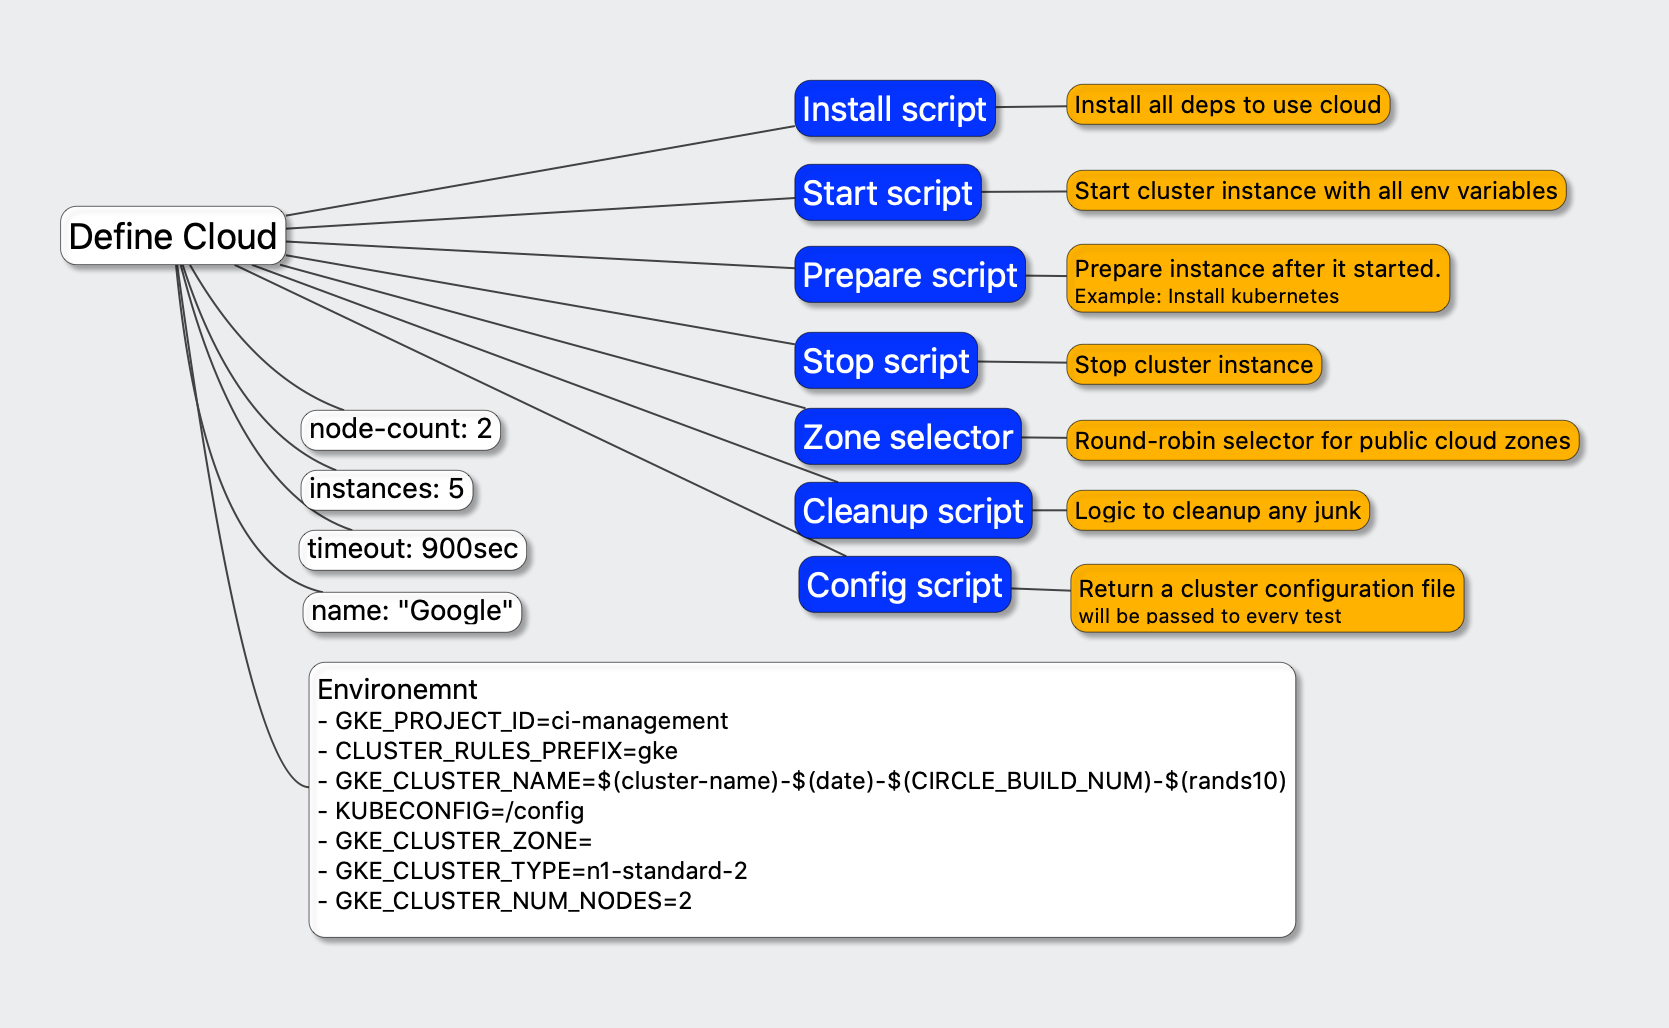
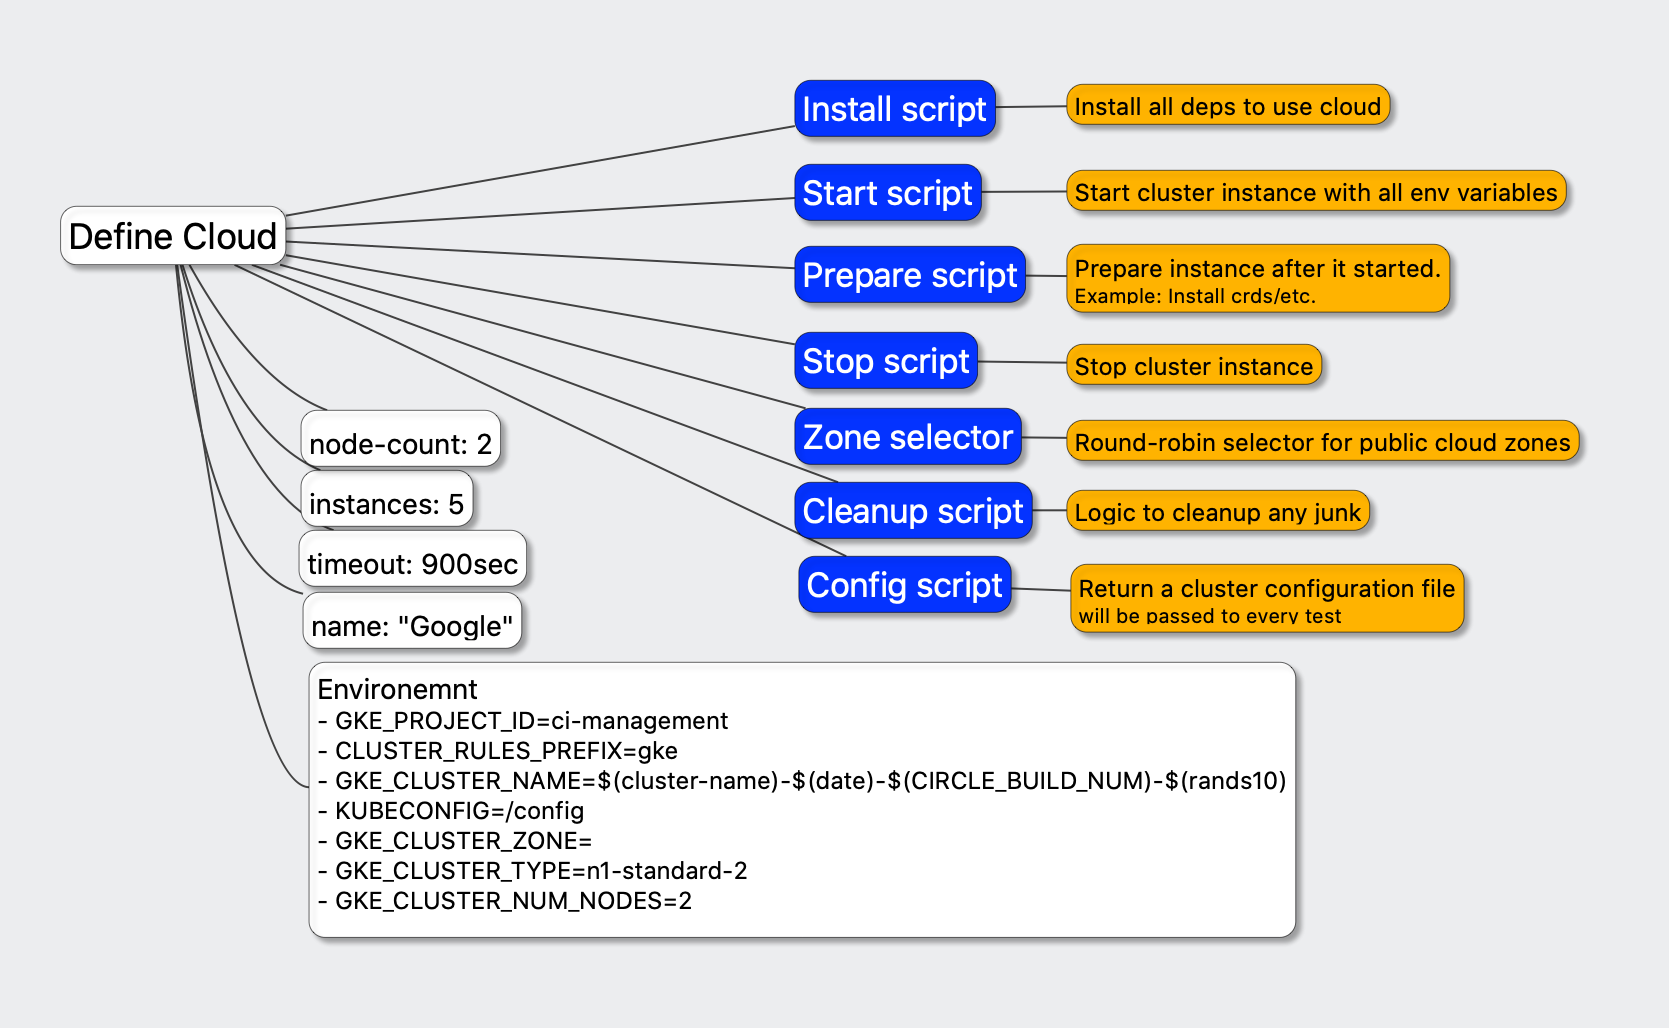
Documenation update

diff --git a/pkg/config/config.go b/pkg/config/config.go
@@ -28,13 +28,13 @@ type DeviceConfig struct {
 type PacketConfig struct {
 	Devices           []*DeviceConfig `yaml:"devices"`            // A set of device configuration required to be created before starting cluster.
 	Facilities        []string        `yaml:"facilities"`         // A set of facility filters
-	PreferredFacility string          `yaml:"preferred-facility"` // A prefered facility key
+	PreferredFacility string          `yaml:"preferred-facility"` // A preferred facility key
 	SshKey            string          `yaml:"ssh-key"`            // A location of ssh key
 }
 
 type ClusterProviderConfig struct {
 	Name       string            `yaml:"name"`       // name of provider, GKE, Azure, etc.
-	Kind       string            `yaml:"kind"`       // register provider type, 'generic', 'gke', multi-cluster
+	Kind       string            `yaml:"kind"`       // register provider type, 'shell', 'packet'
 	Instances  int               `yaml:"instances"`  // Number of required instances, executions will be split between instances.
 	Timeout    int               `yaml:"timeout"`    // Timeout for start, stop
 	RetryCount int               `yaml:"retry"`      // A count of start retrying steps.

diff --git a/docs/README.md b/docs/README.md
@@ -1,33 +1,316 @@
-CloudTest
-====================
+# CloudTest
 
-Overview
---------
+## Overview
+
+CloudTest is automatic tool to perform integration testing for cloud based environments, 
+it allow to configure and bring few multiple clouds to live and execurte go/shell integration tests agains all of clusters 
+configured and combine all results into one junit.xml report file to be used with any suitable CI system. 
+
+## Problem Statement
+
+Integration testing agains multiple different cluster systems could be difficult, so this tool is designed to make
+this possible to use.
+
+![Overview](images/problem_statement.png)
+
+We have few tests, they could be go integration tests or shell scripts we want to check agains every cloud system we want our 
+product to work, we need to setup few different cloud systems, with number of instances for every of them and perform 
+execution of every test we want agains every cluster with selection of instance we want to run agains. 
+
+And after all this done we want to have a report showing which tests are passed or not, for failed tests we want
+some output and results to obtain. 
+
+## Workflow
+1. User define configuration:
+    * it is used to provide individual instructions to setup every cloud instance.    
+    * it define executions:
+        * 'go based' folder with tests/or <br/>For `go` it will use `go` command line to obtain a list of individual tests by optionally passing a tag to filter tests. 
+        * shell test script - execute it and check for exit code.
+2. Start tool, it execute tests against every cloud configuration.
+3. After execution:
+    * produced JUnit structured XML report file could be used.
+    * statistics and details about executions in progress could be used to track exeution.
+    * all activities will be captured into individual folders/files for later analysis.      
+
+## Architecture
+
+![Architecture](./images/architecture.png)
+
+## Technical Details
+
+### CommandLine reference
+
+`cloudtest` is main executable for tool. It allow to execute all set of individual tests across all clouds provided.
+
+```
+Usage:
+  * cloud_test [flags]
+  * cloud_test [command]
+
+Available Commands:
+  help        Help about any command
+  version     Print the version number of cloud_test
+
+Flags:
+  -c, --clusters stringArray   Enable disable cluster configs, default use from config. Cloud be used to test against selected configuration or locally...
+      --config string          Config file for providers, default=.cloudtest.yaml
+      --count int              Execute only count of tests (default -1)
+  -e, --enabled                Use only passed cluster names...
+  -h, --help                   help for cloud_test
+      --noInstall              Pass to disable do install operations...
+      --noMask                 Pass to disable masking of environment variables...
+      --noPrepare              Pass to disable do prepare operations...
+      --noStop                 Pass to disable stop operations...
+```
+
+### Configuration file
+
+CloudTest read .cloudtest.yaml file from current directory or use --config parameter passed as arguments.
+Configuration file support include sections with Executions/Providers specified as alternative files.
+
+Full configuration syntax could be checked here: [config.go](../pkg/config/config.go)
+
+Options overview:
+![Confguration](./images/configuration.png)
+
+* CloudTestConfig - top level element configure basic stuff, support imports and define instance 
+configurations and executions.
+* CloudProviderConfig - define a cloud configuration.
+* Execution - define individual execution.
+    * ExecutionSource - specify tags or individual tests to run.
+* HealCheckConfig - define a procedure to check if we still need to perform testing, 
+it could check for git commits appear in pull request, etc.
+* RetestConfig - a way to tweak execution failures caused by cloud instabilities, 
+we found few of them during NSM work and found this very useful.
+* ExecutionStatistics - enable/disable and interval for runtime statistics.
+* PacketConfig/DeviceConfig - a packet specific configuration options.
+
+### Providers
+
+CloudTest architecture support multiple cloud providers, right now few of them are implemented.
+
+At the moment tool support few providers:
+* 'shell' - provider, a user control all life cycle of creation and manage of individual instances of 
+   cloud using shell scripts.
+* 'packet' - a provider for Packet.net hosting, it allow to create Packet devices and uses few shell scripts 
+to configure created devices.
+   
+#### Shell provider
+
+Shell provider is allow us to define every instance as combination of few steps.   
+![Define Cloud](./images/define_cloud.png)
+
+Supported Scripts:
+* `Install` script - prepare environment, executed only once per provider. 
+Could be used to install all required dependencies.
+* `Zone Selector` script - a script to select one or more zones, put randomly selected zone 
+into property $(zone-selector) and it could be used to start cloud into different zones. 
+Must return individual zones per line of output.  
+* `Start` script - used to start an instance of cloud configured. 
+Use environment variables for cloud name/etc to make it independent. 
+Right now after start will start live-monitoring of Kubernetes cluster to 
+check for required number of nodes are available.
+* `Prepare` script - Prepare instance after it is started, ex: Install CRDs/etc.
+* `Config` script - A script to return Cluster configuration file location, will be called if 
+environment variable KUBECONFIG is not specified with configuration.   
+* `Cleanup` script - a script to remove old or unused instances, executed at same time as general testing in background.
+
+Example configuration:
+
+```yaml
+---
+version: 1.0
+providers:
+  - name: "gke"
+    kind: "shell"
+    instances: 6
+    retry: 5
+    node-count: 2
+    enabled: true
+    timeout: 900  # 15 minutes to start cluster
+    env:
+      - GKE_PROJECT_ID=ci-management
+      - CLUSTER_RULES_PREFIX=gke
+      - GKE_CLUSTER_NAME=$(cluster-name)-$(date)-${CIRCLE_BUILD_NUM}-$(rands10)
+      - KUBECONFIG=$(tempdir)/config
+      - GKE_CLUSTER_ZONE=$(zone-selector)
+      - GKE_CLUSTER_TYPE=n1-standard-2
+      - GKE_CLUSTER_NUM_NODES=2
+      - CA_DIR=./deployments/helm/nsm/charts/spire/
+    env-check:
+      - GCLOUD_SERVICE_KEY
+      - CIRCLE_BUILD_NUM
+      - CONTAINER_REPO
+      - CONTAINER_TAG
+    scripts:
+      install: ./.cloudtest/gke/init.sh
+      zone-selector: ./.cloudtest/gke/list_zones.sh ci-management  # List zones, but it need GKE_PROJECT_ID to be passed.
+      start: |
+        make gke-start
+      stop: make gke-destroy
+      # config: # We do not need it since we put KUBECONFIG into env.
+      prepare: scripts/prepare-cluster.sh
+      cleanup: |
+        ./scripts/gke/destroy-old-clusters.sh 4 "^gke"
+```
+
+#### Packet provider.
+
+Packet provider is provider to create devices in Packet.net. 
+ 
+It requires few environment variables to be passed:
+* PACKET_AUTH_TOKEN - a token to allow to create devices in.
+* PACKET_PROJECT_ID - a project id to create devices in.
+
+Supported Scripts:
+
+* `Install` script - uses to install any deps, executed only once per all instances.
+* `Setup` script - perform some initialization logic, at least it should generate or pass a ssh key to be 
+used to contact to created devices.
+* `Start` script - perform post-start operations, devices are created before calling of this script.
+* `Prepare` script - a script to prepare instance after setup is complete.
+* `Cleanup` script - a script executed in background to cleanup any of outdated instances.
+
+In compare to shell, `Stop` script is not used since removal of cluster are performed with Packet APIs with deletion of device.
+
+Additional special variables are added to context after Install script and after all devices are created:
+* $(device.{Name}.pub.ip.{address_family}) with value to IP4 or IP6 address.
+* $(device.{Name}.pub.net.{address_family}) with value to IP4 or IP6 network.
+* $(device.{Name}.pub.gw.{address_family}) with value to IP4 or IP6 gateway address.
+
+Example packet configuration:
+
+```yaml
+---
+version: 1.0
+providers:
+  - name: "packet"
+    kind: "packet"
+    instances: 6
+    retry: 5
+    node-count: 2
+    enabled: true
+    timeout: 1800  # 30 minutes to start cluster
+    env:
+      - CLUSTER_RULES_PREFIX=null  # To not add any specific code
+      - KUBECONFIG=$(tempdir)/config
+      - CLUSTER_NAME=$(cluster-name)-$(date)-${CIRCLE_BUILD_NUM}-$(rands10)
+      - CA_DIR=./deployments/helm/nsm/charts/spire/
+    env-check:
+      - PACKET_AUTH_TOKEN
+      - PACKET_PROJECT_ID
+      - CIRCLE_BUILD_NUM
+    packet:
+      ssh-key: sshkey.pub   # A key name relative to $(tempdir) or absolute
+      devices:
+        - name: "Master"
+          host-name: "Master-${CLUSTER_NAME}"
+          plan: "t1.small.x86"
+          os: "ubuntu_16_04"
+          billing_cycle: "hourly"
+        - name: "Worker"
+          host-name: "Worker-${CLUSTER_NAME}"
+          plan: "t1.small.x86"
+          os: "ubuntu_16_04"
+          billing_cycle: "hourly"
+      facilities:
+        - baremetal
+        - layer_2
+        - global_ipv4
+      preferred-facility: sjc1
+    scripts:
+      install: "echo all deps installed"
+      setup: |
+        ssh-keygen -t rsa -f $(tempdir)/sshkey -q -N "" # Will also generate sshkey.pub
+        ssh-add $(tempdir)/sshkey
+      start: ./examples/packet/create-kubernetes-cluster.sh $(device.Master.pub.ip.4) $(device.Worker.pub.ip.4) "$(tempdir)/sshkey"
+      prepare: echo "Do prepare"
+      cleanup: echo "Do cleanup" 
+```
+
+### Environment variables processing
+
+Environment variables defined could use ${VAR} syntax to include value existing variable or use few special $(var) 
+expressions to include special values.
+
+List of special values:
+
+* $(cluster-name) -  uniq, name of cluster instance usually == "$(provider-id)-NUM"
+* $(provider-name) - name of cluster provider defined in config
+* $(random) -        random integer value from 0 to 1000000
+* $(uuid) -          uuid.New().String()
+* $(rands30) -       random string of 30 characters
+* $(rands10) -       random string of 10 characters
+* $(tempdir) -       location of temporary folder for cluster instance
+* $(year) -          today Year
+* $(month) -         today Month
+* $(date) -          date in format ("%s-%s-%s", todayYear, todayMonth, todayDay)
+* $(day) -           today Day
+* $(zone-selector) - a value of random selected zone for instance.
+
+### Script execution
+
+Every script defined for individual cluster configuration actions or defined for execution operations are 
+split into individual lines by '\n' pattern and support \\{x} substitutions and interpreter support characters inside " as string with spaces.
+Before passing to execution every line are substituted with ${} and $() for environment variables and special values.
+
+No other processing are supported right now.
 
 
+### Executions supported.
 
-Use Cases
----------
+Every tests are scheduled for every cloud setup and executed on one of available instances. 
+It is possible to define environment variables to be used by every test executed, cloud setup are passed to tests using 
+cloud instanceof configuration environment variables. So integration test authors should use this variables to 
+tests against required cloud instance.
 
-Architecture
-------------
+Every execution produce output and report record with execution status. 
+CloudTest tool allow to re-start execution in case of test was timeout execution or log contains some cloud specified problems, 
+in this case cloud instance will be restarted and test will be executed again on same or another instance for same cloud setup.
+ 
+Example single cluster execution:
 
-* [High Level Overview](/docs/what-is-cloudtest.md)
-* TODO - High Level Concepts
-* TODO - Detailed dives into individual topics
+```yaml
+executions:
+   - name: "Single cluster tests"
+     env:
+       - STORE_POD_LOGS_IN_FILES=true
+     source:
+       tags:
+         - basic
+         - recover
+         - usecase
+     root: ./test/integration
+     timeout: 300
+     cluster-count: 1
+     kubernetes-env:
+       - KUBECONFIG
+     on_fail: |
+       make k8s-delete-nsm-namespaces
+```
 
-Technical Details
------------------
 
-* TODO - How to discover network namespace from within a pod [Ed to write]
-* TODO - What are Kubernetes CRDs and how do they work?
+Example of multi-could test, in this case we specify names of provider and different config variables names:
 
-Technical Demonstrations
-------------------------
-
-* TODO - Adding a new interface
-* TODO - VPN Gateway
-
-Guides
--------
-
+```yaml
+---
+ executions:
+   - name: "Interdomain tests packet-aws"
+     env:
+       - STORE_POD_LOGS_IN_FILES=true
+       - USE_JAEGER_SERVICE=true
+     source:
+       tags:
+         - interdomain
+     root: ./test/integration
+     timeout: 600
+     cluster-count: 2
+     cluster-selector:
+       - packet
+       - aws
+     kubernetes-env:
+       - KUBECONFIG_CLUSTER_1
+       - KUBECONFIG_CLUSTER_2
+     on_fail: |
+       make k8s-delete-nsm-namespaces
+```

diff --git a/README.md b/README.md
@@ -1,6 +1,6 @@
 # CloudTest tool
 
-[![CircleCI Build Status](https://circleci.com/gh/networkservicemesh/cloudtest/tree/master.svg?style=svg)](https://circleci.com/gh/networkservicemesh/cloudtest/tree/master)
+[![GithubActions Build Status](https://github.com/networkservicemesh/cloudtest/workflows/ci/badge.svg)](https://circleci.com/gh/networkservicemesh/cloudtest/tree/master)
 [![Weekly minutes](https://img.shields.io/badge/Weekly%20Meeting%20Minutes-Tue%208am%20PT-blue.svg?style=plastic")](https://docs.google.com/document/d/1C9NKjo0PWNWypROEO9-Y6haw5h9Xmurvl14SXpciz2Y/edit#heading=h.rc9df0a6n3ng)
 [![Mailing list](https://img.shields.io/badge/Mailing%20List-networkservicemesh-blue.svg?style=plastic")](https://groups.google.com/forum/#!forum/networkservicemesh)
 [![GitHub license](https://img.shields.io/badge/license-Apache%20license%202.0-blue.svg)](https://github.com/networkservicemesh/cloudtest/blob/master/LICENSE)
@@ -18,7 +18,7 @@ CloudTest is automatic tool to perform integration testing for cloud based envir
 it allow to configure and bring few multiple clouds to live and execurte go/shell integration tests agains all of clusters 
 configured and combine all results into one junit.xml report file to be used with any suitable CI system. 
 
-For more information, have a look at our detailed overview of NSM - [What is CloudTest?](/docs/what-is-cloudtest.md)
+For more information, have a look at our detailed overview of NSM - [What is CloudTest?](/docs/README.md)
 
 ## Install
 
